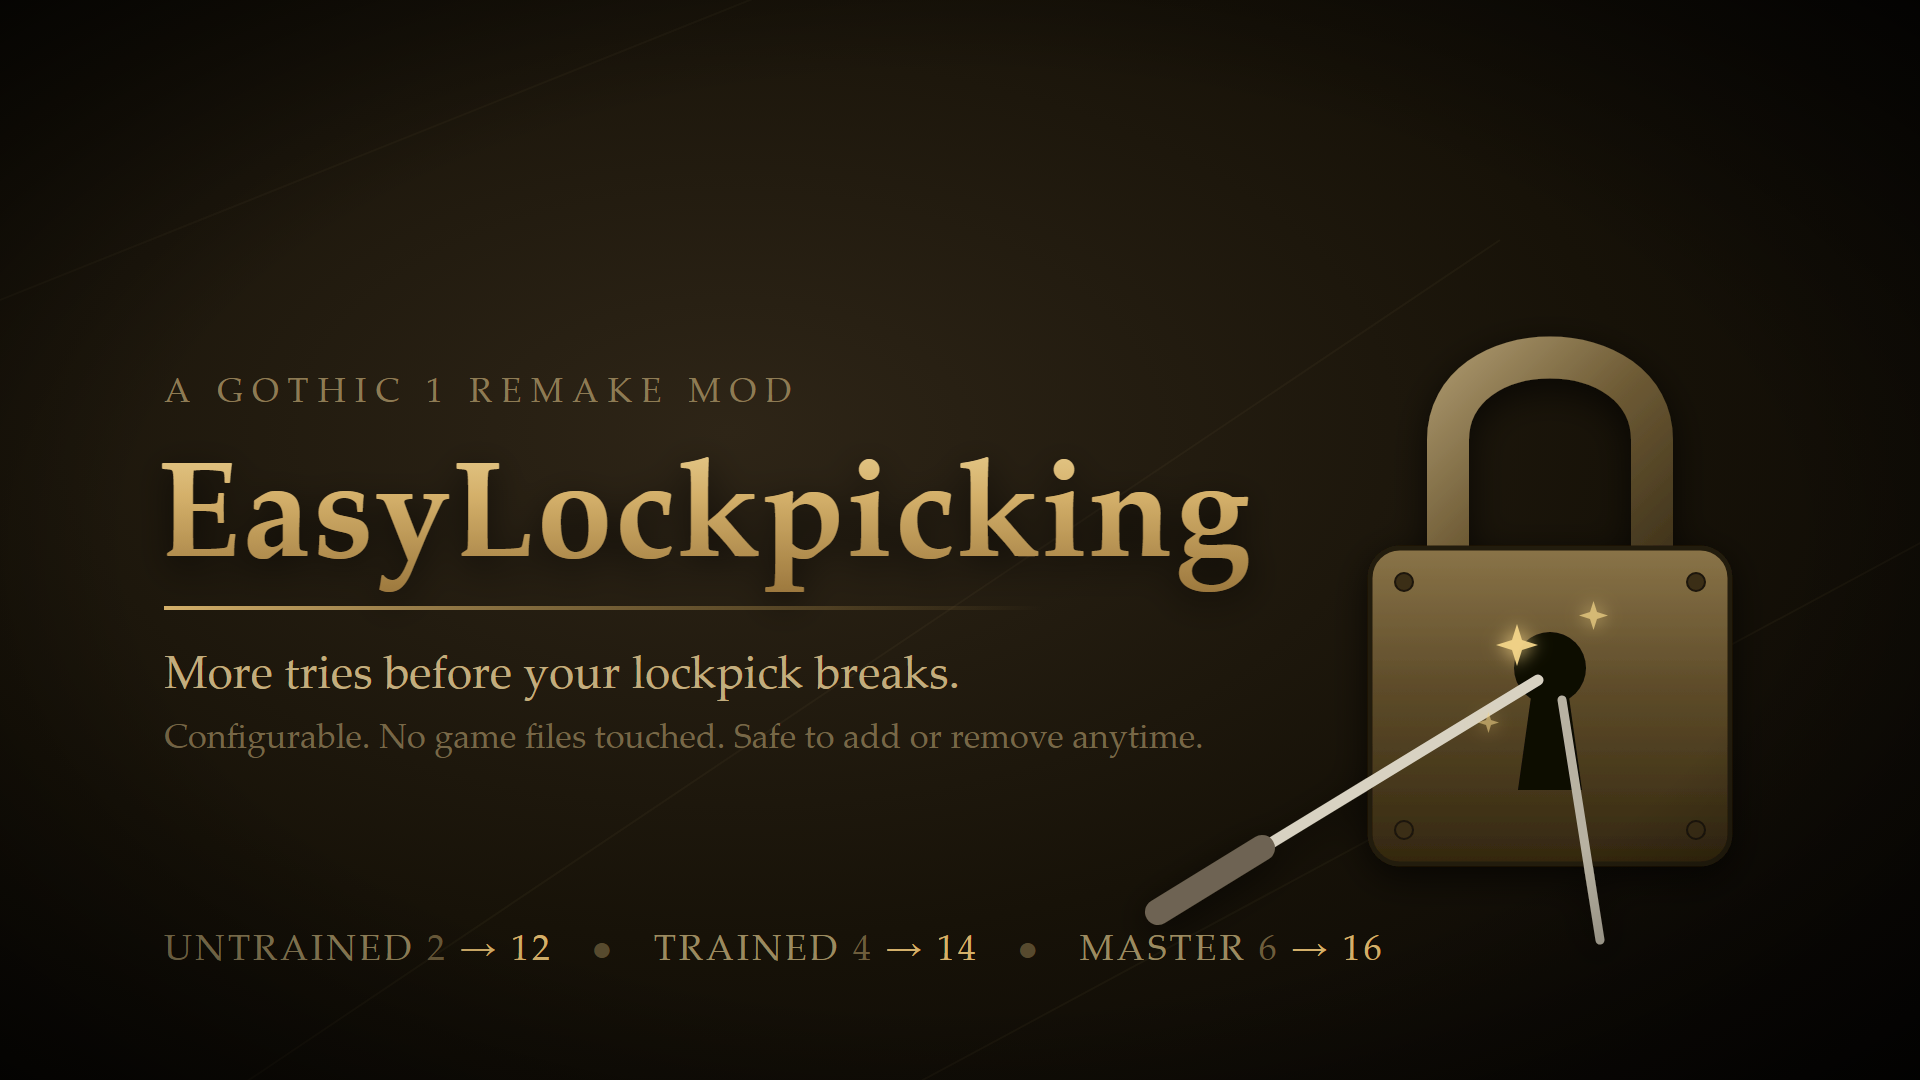
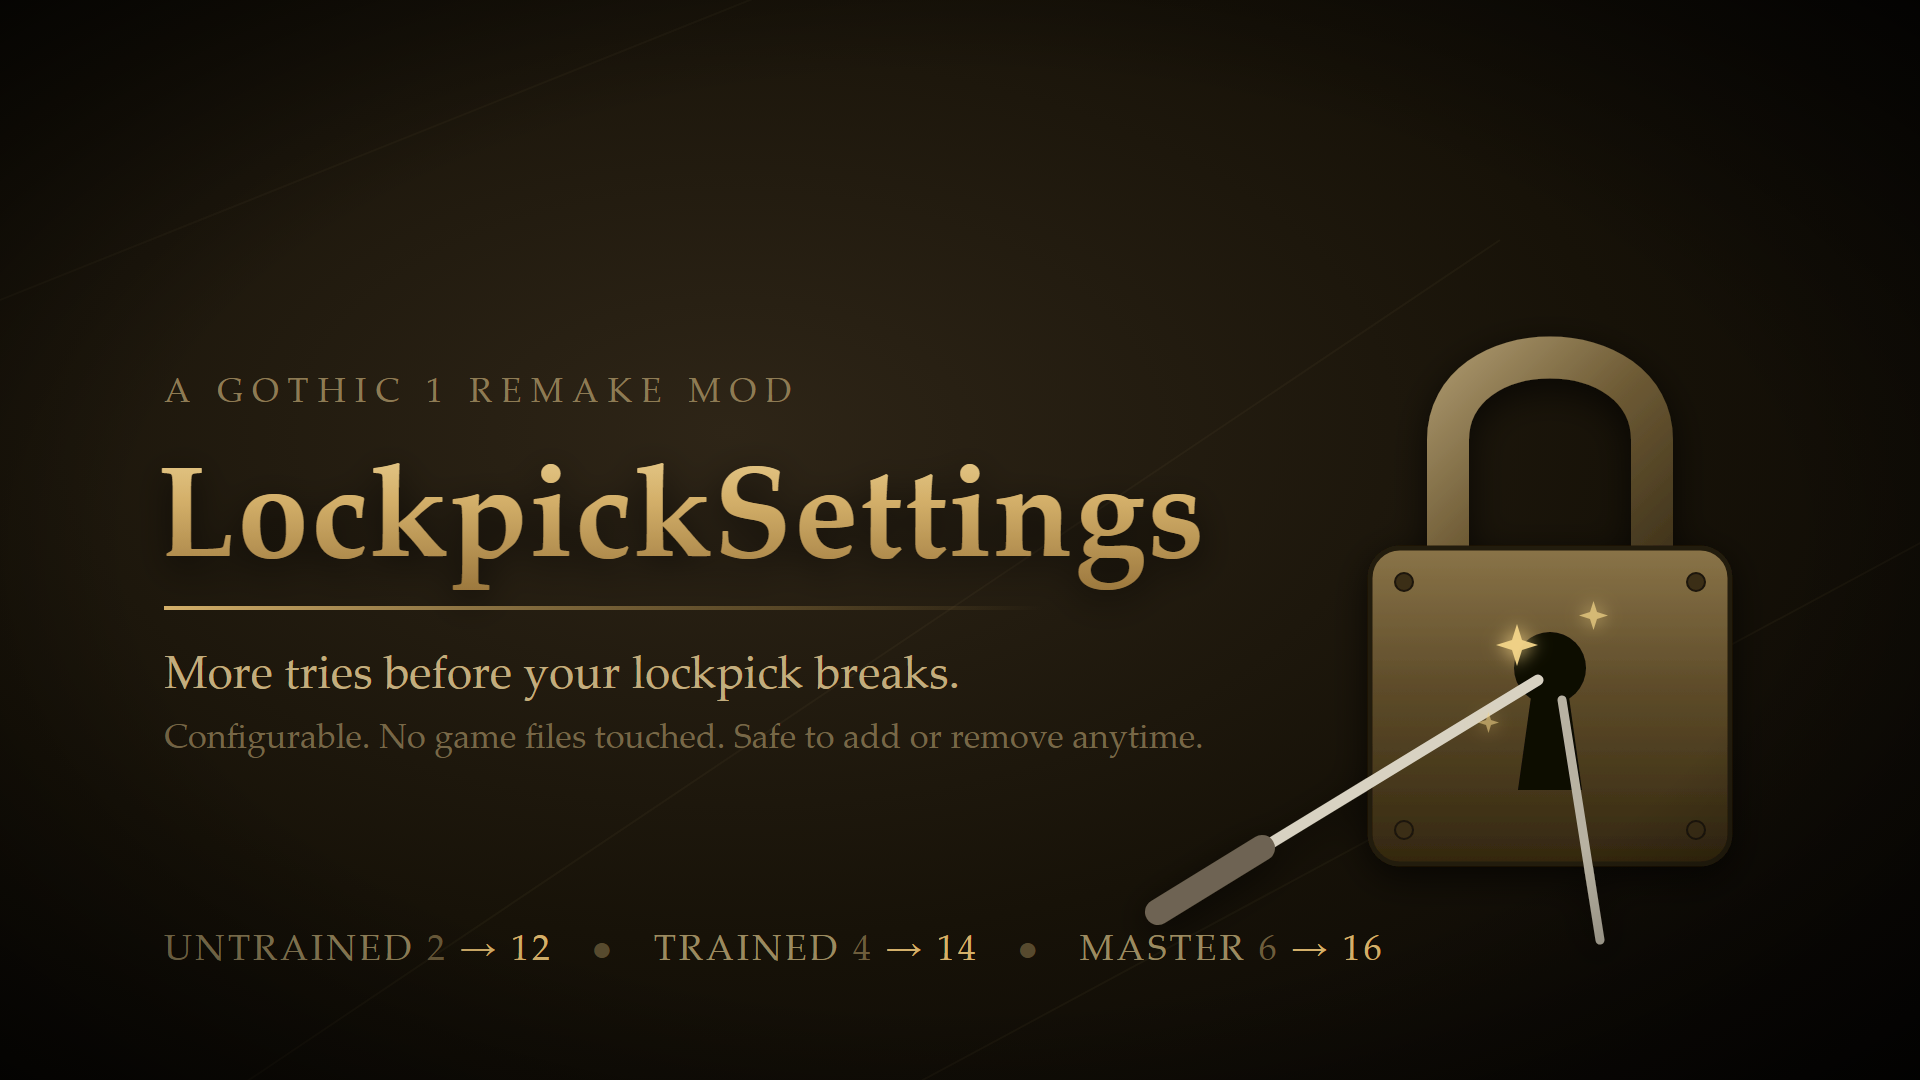
Rename mod EasyLockpicking -> LockpickSettings everywhere
The old name was a relic of the first prototype written directly in the
game folder; the deploy script kept it alive via a name map to keep
mods.txt and logs stable. Shipping fresh under one name instead:
scripts, log prefix, deployed folder, release kit (banner, description,
readme, zip) and deploy script all say LockpickSettings now. The name
map and the stale mods.txt entry are gone; activation is enabled.txt.

Changed region(s): [[0.0938, 0.4278, 0.6562, 0.55]]

diff --git a/G1R/LockpickSettings/release/header.html b/G1R/LockpickSettings/release/header.html
@@ -92,8 +92,8 @@
   <!-- text block, left side -->
   <g font-family="Palatino Linotype, Georgia, serif">
     <text x="164" y="402" font-size="34" letter-spacing="9" fill="#8d7b54">A GOTHIC 1 REMAKE MOD</text>
-    <text x="158" y="556" font-size="136" font-weight="bold" letter-spacing="2"
-          fill="url(#gold)" filter="url(#softShadow)">EasyLockpicking</text>
+    <text x="158" y="556" font-size="128" font-weight="bold" letter-spacing="2"
+          fill="url(#gold)" filter="url(#softShadow)">LockpickSettings</text>
     <rect x="164" y="606" width="880" height="4" fill="url(#divider)"/>
     <text x="164" y="688" font-size="46" fill="#c2ad7e">More tries before your lockpick breaks.</text>
     <text x="164" y="748" font-size="34" fill="#776747">Configurable. No game files touched. Safe to add or remove anytime.</text>

diff --git a/G1R/LockpickSettings/README.md b/G1R/LockpickSettings/README.md
@@ -1,7 +1,7 @@
 # LockpickSettings
 
-More lockpick tries for Gothic 1 Remake. Deployed into the game as the
-UE4SS Lua mod `EasyLockpicking` (name mapping in `tools/deploy.ps1`).
+More lockpick tries for Gothic 1 Remake, shipped as the UE4SS Lua mod
+`LockpickSettings`.
 
 ## What it does
 
@@ -35,7 +35,7 @@ powershell -File tools\deploy.ps1 -Mod LockpickSettings
 ```
 
 This copies `Scripts/` and the `enabled.txt` activation marker to
-`G1R\Binaries\Win64\ue4ss\Mods\EasyLockpicking` (UE4SS starts any mod
+`G1R\Binaries\Win64\ue4ss\Mods\LockpickSettings` (UE4SS starts any mod
 folder containing `enabled.txt`, no `mods.txt` entry needed). Requires
 a working UE4SS setup, see the G1R modding guide (`../README.md`).
 
@@ -59,7 +59,7 @@ a working UE4SS setup, see the G1R modding guide (`../README.md`).
 
 ## Troubleshooting
 
-Check `G1R\Binaries\Win64\ue4ss\UE4SS.log` for `[EasyLockpicking]` lines:
+Check `G1R\Binaries\Win64\ue4ss\UE4SS.log` for `[LockpickSettings]` lines:
 
 - On game start: `Loaded: untrained 2->12, trained 4->14, master 6->16`
 - On each pick attempt: `Minigame: trained tier, tries 4 -> 14`